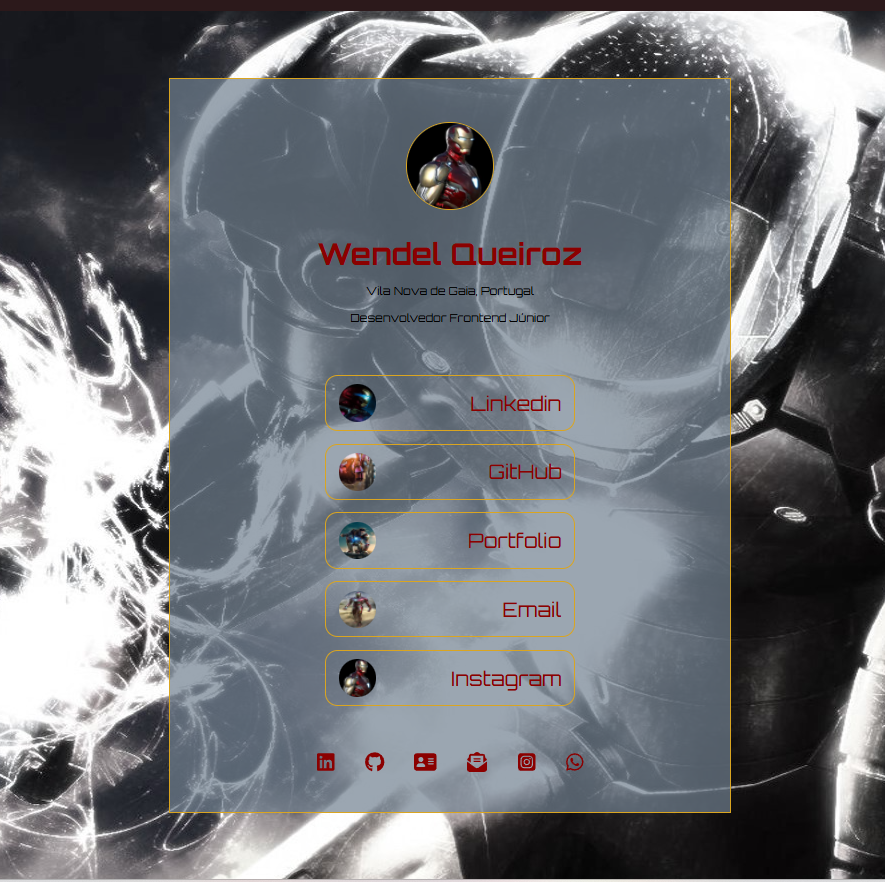
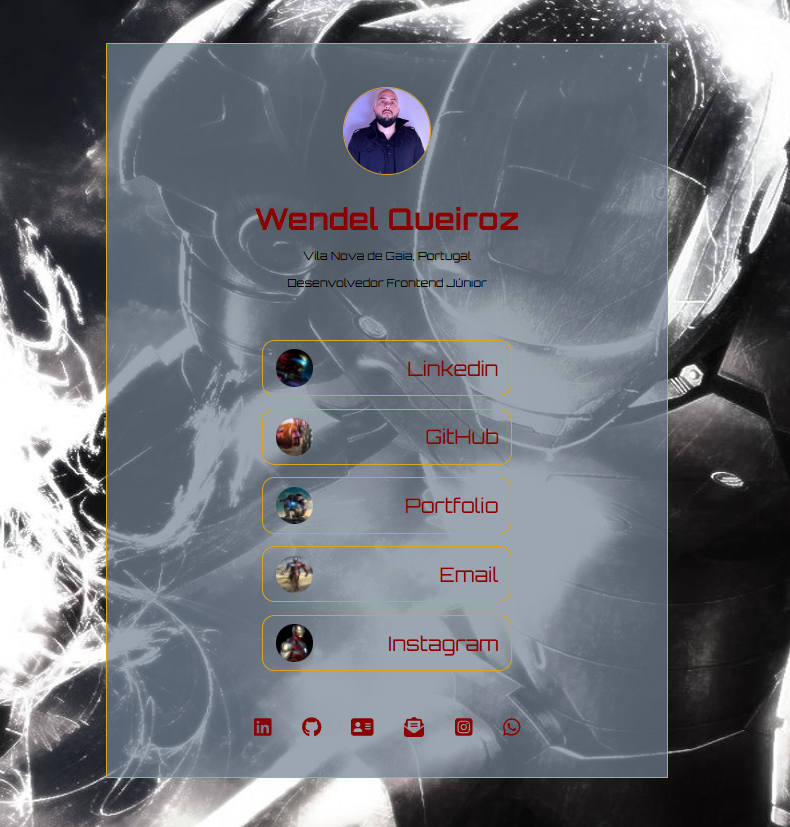
foto de perfil alterada

diff --git a/index.html b/index.html
@@ -96,7 +96,7 @@
       <div class="container-foto">
         <div class="foto sombra-interna">
           <img
-            src="./src/imagens/android-chrome-192x192.png"
+            src="./src/imagens/foto-nova-cortada.jpeg"
             alt="foto do portfólio do Wendel"/>
         </div>
       </div>

diff --git a/src/css/style.css b/src/css/style.css
@@ -133,7 +133,7 @@ body {
 
 .projetos {
     padding: 70px 0;
-    height: 100vh;
+    /* height: 100vh; */
 }
 
 .projetos .titulo {
